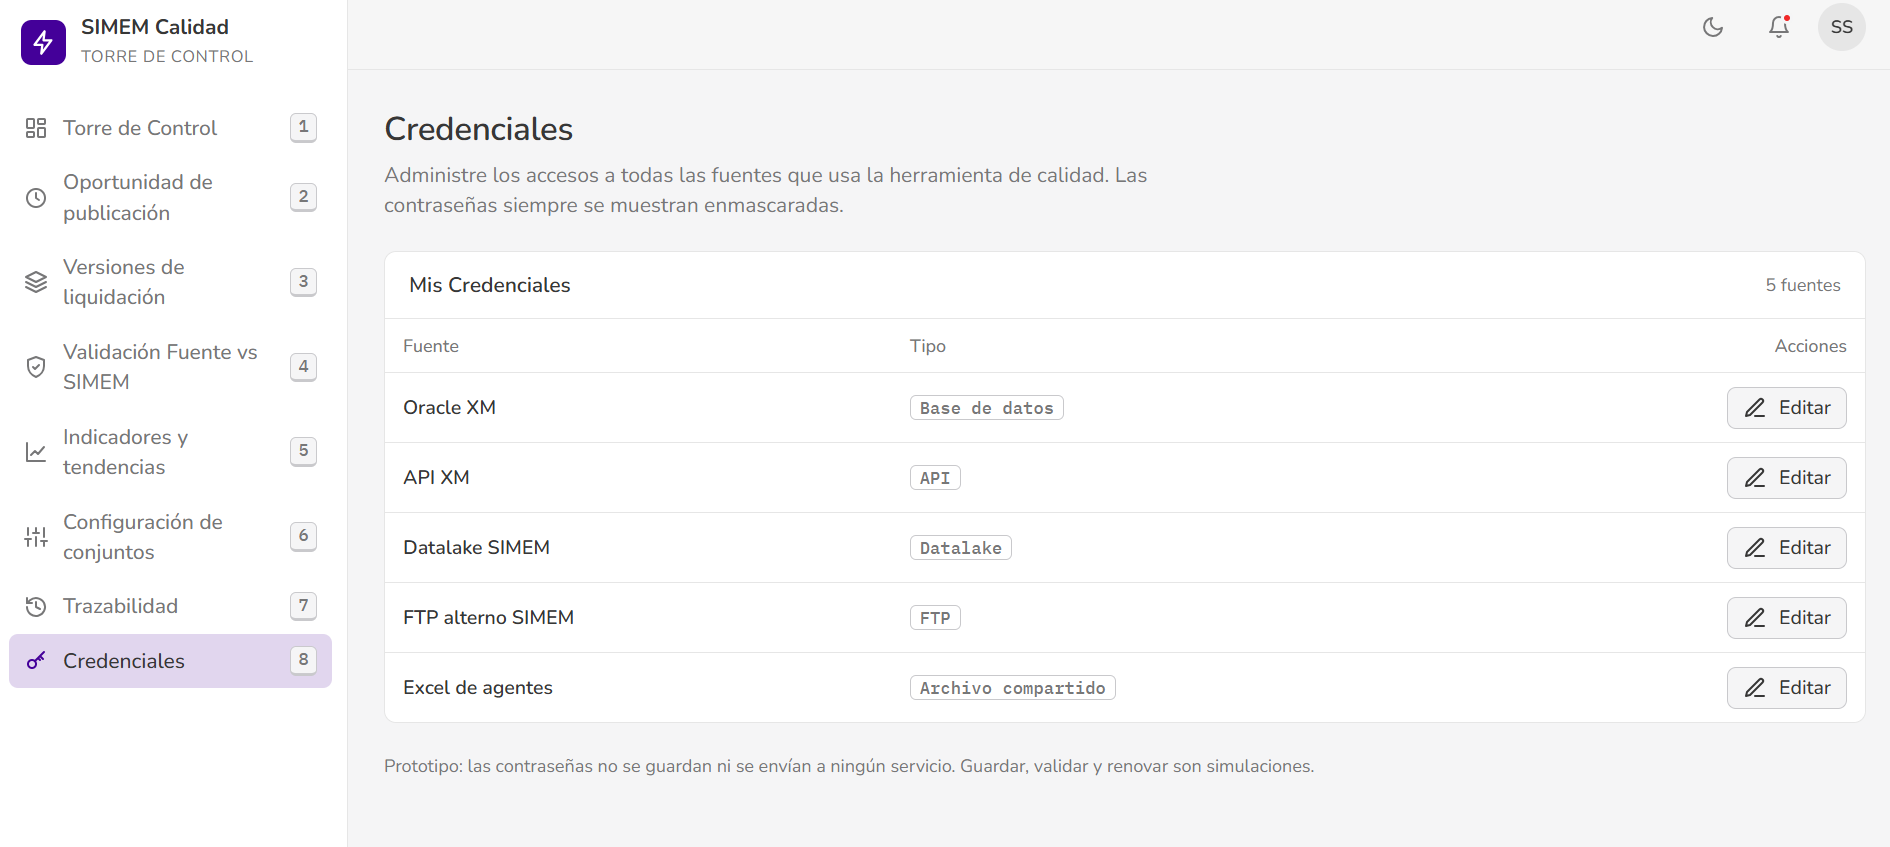
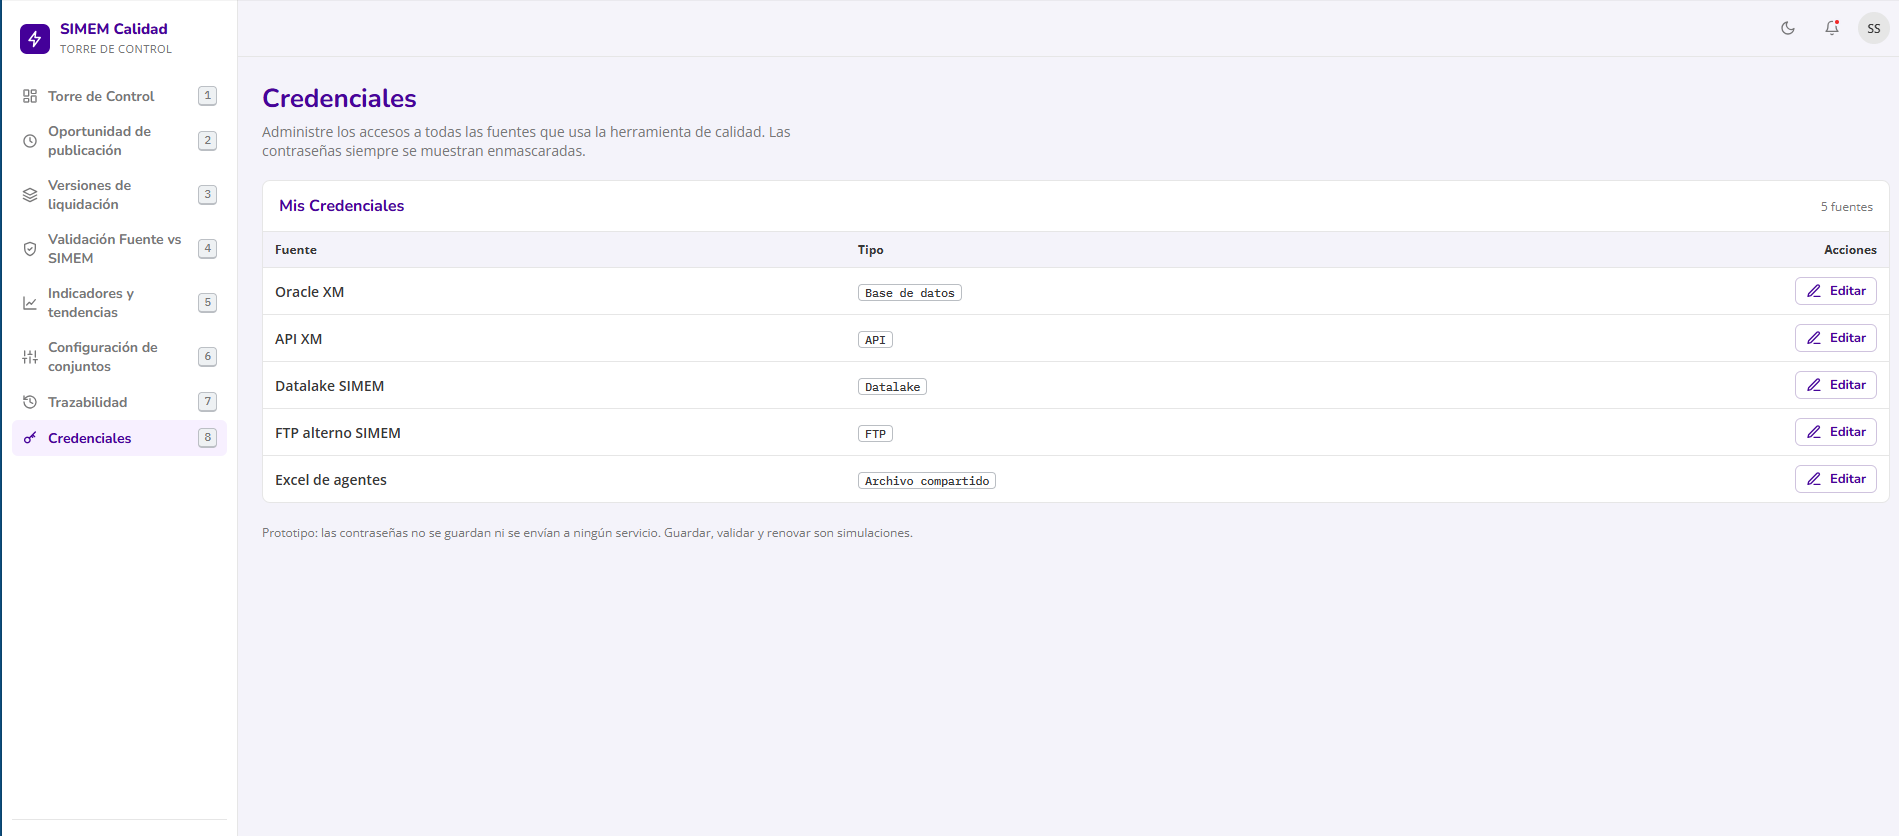
(fix) colors

diff --git a/docs/entrega_unificada.md b/docs/entrega_unificada.md
@@ -203,7 +203,7 @@ Mayorista_).
 
 - **Conocimiento y experiencia:** Son **usuarios expertos en el dominio** (poseen un alto
   conocimiento técnico del mercado energético y la estructura de los datos) y tienen una alta
-  literacidad digital[^literacidad]. Sin embargo, no necesariamente son expertos en la adopción
+  literacidad digital. Sin embargo, no necesariamente son expertos en la adopción
   de nuevas herramientas de software, por lo que la curva de aprendizaje de la interfaz debe ser
   baja.
 - **Frecuencia y contexto de uso:** Son usuarios **intensivos/frecuentes**. Su interacción con el
@@ -241,14 +241,14 @@ puntos de fricción:**
 3. **Corrección mediante "Workarounds" (Soluciones informales):** Para corregir el error, el
    usuario debe extraer el dato, estructurar un archivo CSV de forma manual y redactar un correo
    al equipo de soporte.
-   - Fricción (IHC): **Alto Abismo de Ejecución (Gulf of Execution)**[^abismo-ejecucion]. Falta
+   - Fricción (IHC): **Alto Abismo de Ejecución (Gulf of Execution)** Falta
      de manipulación directa. El usuario sabe qué quiere corregir, pero el sistema no le da la
      herramienta para hacerlo por sí mismo, obligándolo a abandonar su flujo de trabajo y usar
      herramientas de terceros (_Excel/Notepad, Outlook_).
 4. **Dependencia de terceros y Feedback Asíncrono:** El equipo de soporte actualiza la base de
    datos y re-ejecuta la ETL. El usuario debe esperar y posteriormente entrar de nuevo al portal
    _SIMEM_ para validar.
-   - Fricción (IHC): **Abismo de Evaluación (Gulf of Evaluation)[^abismo-evaluacion] y cuellos
+   - Fricción (IHC): **Abismo de Evaluación (Gulf of Evaluation) y cuellos
      de botella**. El ciclo de retroalimentación (feedback loop) está roto. El usuario no recibe
      confirmación en tiempo real de su acción, generando tiempos muertos, ansiedad y rompiendo
      por completo la continuidad de la tarea (ruptura del estado de flujo).
@@ -452,7 +452,7 @@ disponibilidad y actualización de los datos publicados en la plataforma.
 Actualmente, la información asociada al estado de los datos y a las validaciones de calidad se
 encuentra distribuida en múltiples mecanismos independientes: correos electrónicos, archivos
 CSV, consultas manuales a las bases de datos de SIMEM, monitor de carga de datos diario y una
-alerta de conjuntos de datos con publicaciones definidas en plazos regulatorios[^creg]. Esta
+alerta de conjuntos de datos con publicaciones definidas en plazos regulatorios. Esta
 situación genera una experiencia fragmentada que dificulta la identificación temprana de
 incidentes, el seguimiento de problemas y la priorización de acciones correctivas.
 
@@ -2266,6 +2266,7 @@ Las capturas se guardan en `docs/img/prototipo_final/` con los nombres indicados
 
 ![PF – Torre de Control (1)](img/prototipo_final/pf_torre_de_control_1.png)
 
+
 **Oportunidad de publicación**
 
 ![PF – Oportunidad de publicación](img/prototipo_final/pf_oportunidad_publicacion.png)
@@ -2275,11 +2276,11 @@ Las capturas se guardan en `docs/img/prototipo_final/` con los nombres indicados
 
 ![PF – Versiones de liquidación](img/prototipo_final/pf_versiones_liquidacion.png)
 ![PF – Detalle y recuperación de versión](img/prototipo_final/pf_versiones_detalle.png)
+![PF – Detalle y recuperación de versión](img/prototipo_final/pf_versiones_detalle_2.png)
 
 **Validación Fuente vs SIMEM**
 
 ![PF – Validación Fuente vs SIMEM](img/prototipo_final/pf_validacion_fuente_simem.png)
-![PF – Validación Fuente vs SIMEM](img/prototipo_final/pf_validacion_fuente_simem_2.png)
 ![PF – Validación histórica personalizada](img/prototipo_final/pf_validacion_historica.png)
 
 **Indicadores y tendencias**
@@ -2308,7 +2309,7 @@ Las capturas se guardan en `docs/img/prototipo_final/` con los nombres indicados
 
 **Notificaciones**
 
-![PF – Notificaciones](img/prototipo_final/pf_notificaciones.png)
+![PF – Torre de Control (1)](img/prototipo_final/pf_torre_de_control_2.png)
 
 ## 3. Flujo de tareas
 
@@ -2864,16 +2865,3 @@ Expectations, Microsoft Purview, Azure Data Factory, Grafana, Atlassian Statuspa
 GitHub) se citan en línea en las secciones 4.3 y 4.4 de la Parte III, consultadas el 20 de
 septiembre de 2026.
 
-[^literacidad]: Es la capacidad de una persona para buscar, comprender, evaluar, crear y utilizar
-    información mediante tecnologías digitales de manera crítica, segura y responsable.
-
-[^abismo-ejecucion]: Abismo de Ejecución: la dificultad de hacer que el sistema haga lo que
-    quiero. Don Norman.
-
-[^abismo-evaluacion]: Abismo de Evaluación: la dificultad de saber si el sistema hizo lo que le
-    pedí. Don Norman.
-
-[^creg]: Los conjuntos de datos regulatorios están definidos en la resolución CREG 101 018 del
-    2022, por la cual se crea el Sistema de Información del Mercado de Energía Mayorista, SIMEM.
-    Estos tienen fechas exactas en las que se debe publicar la información. En caso contrario
-    pueden existir sanciones por incumplimiento de la normatividad.
